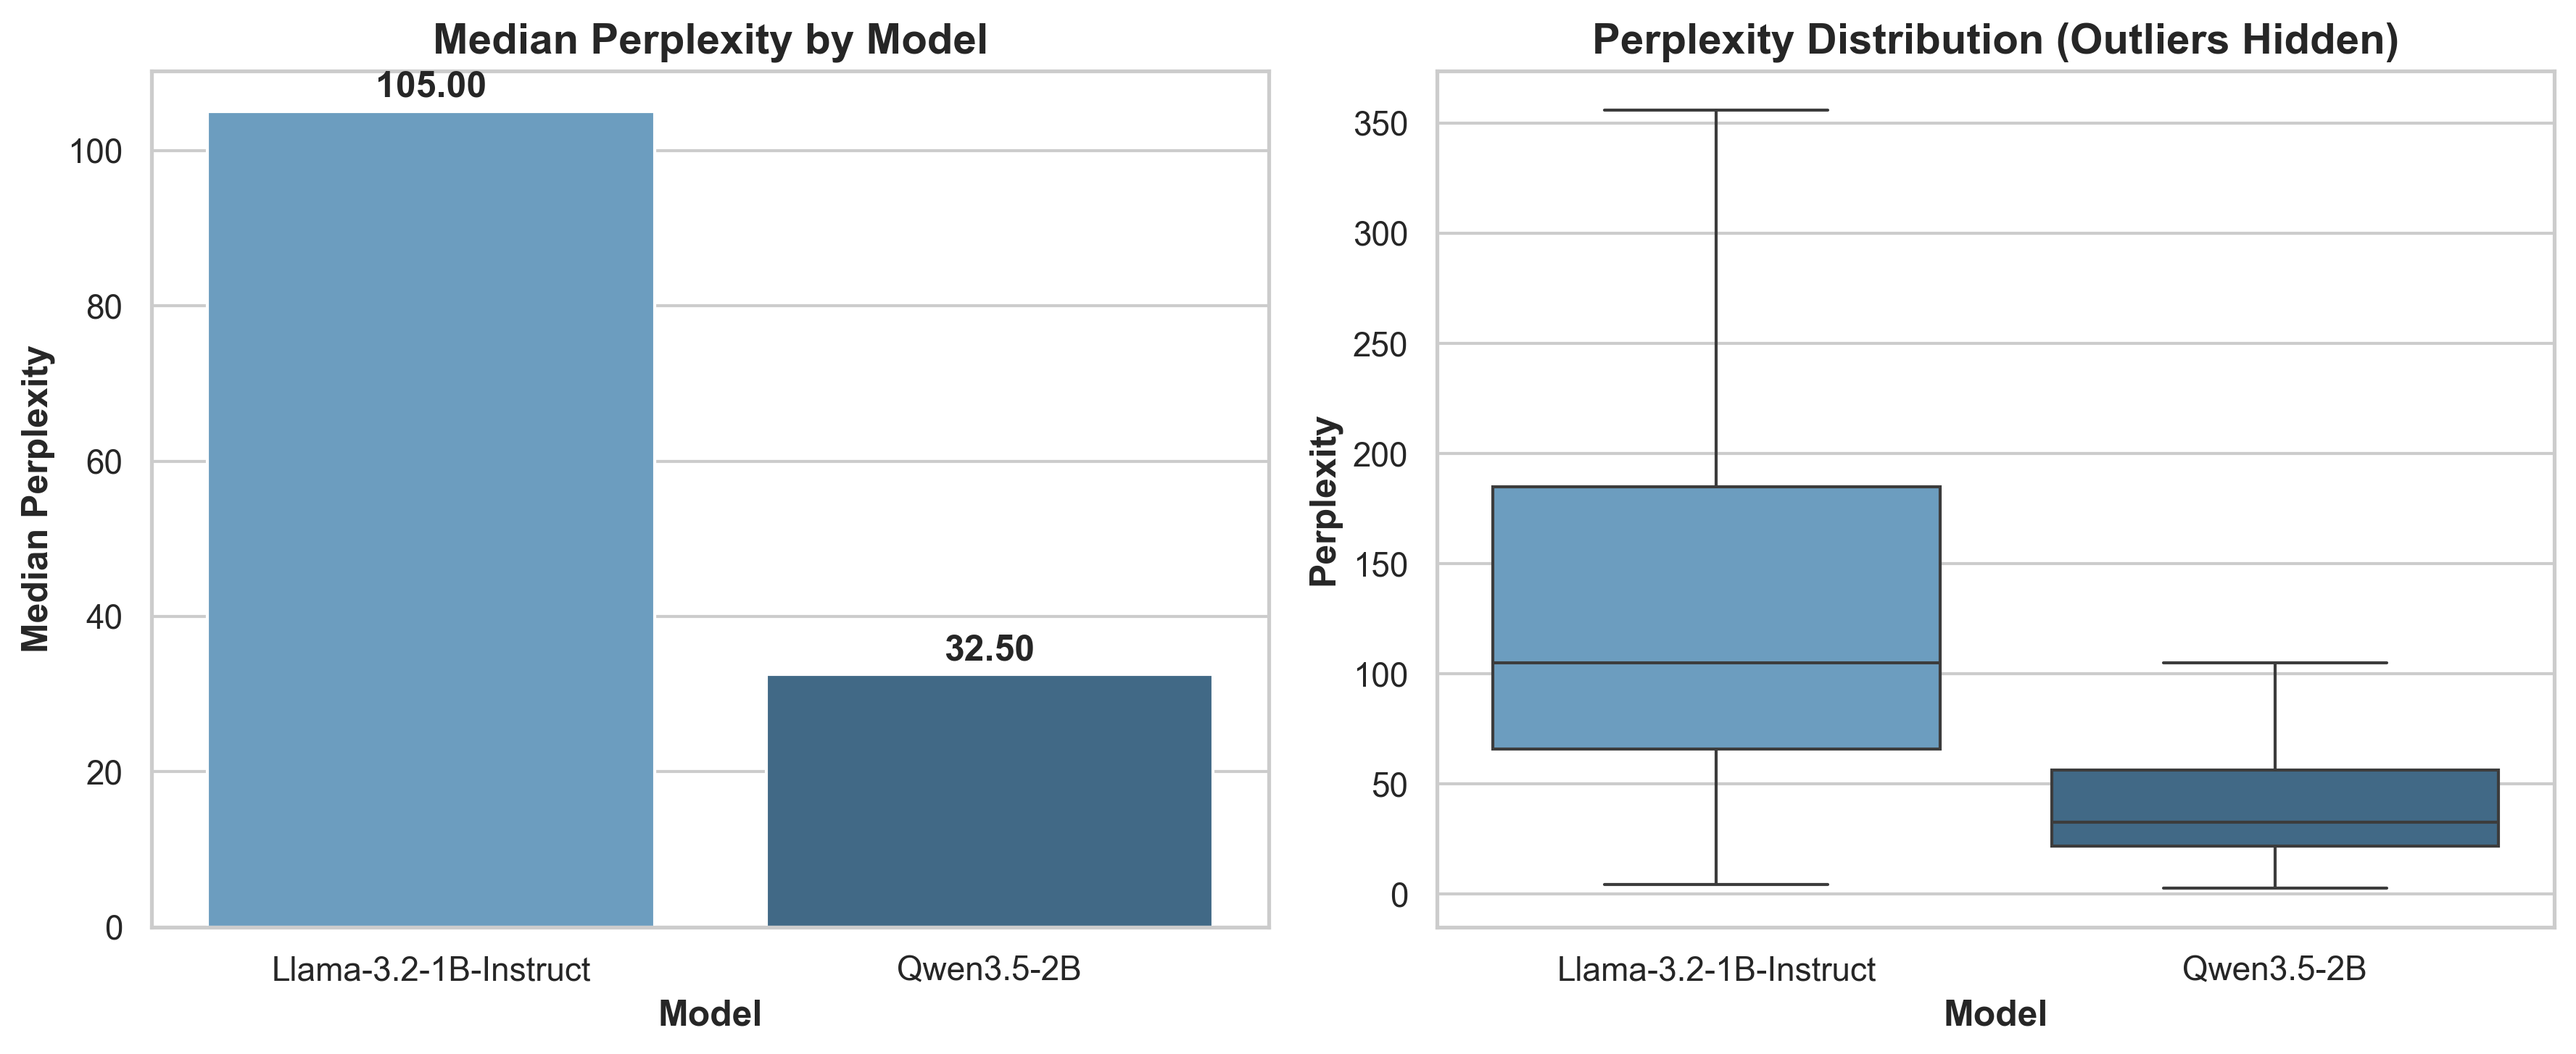
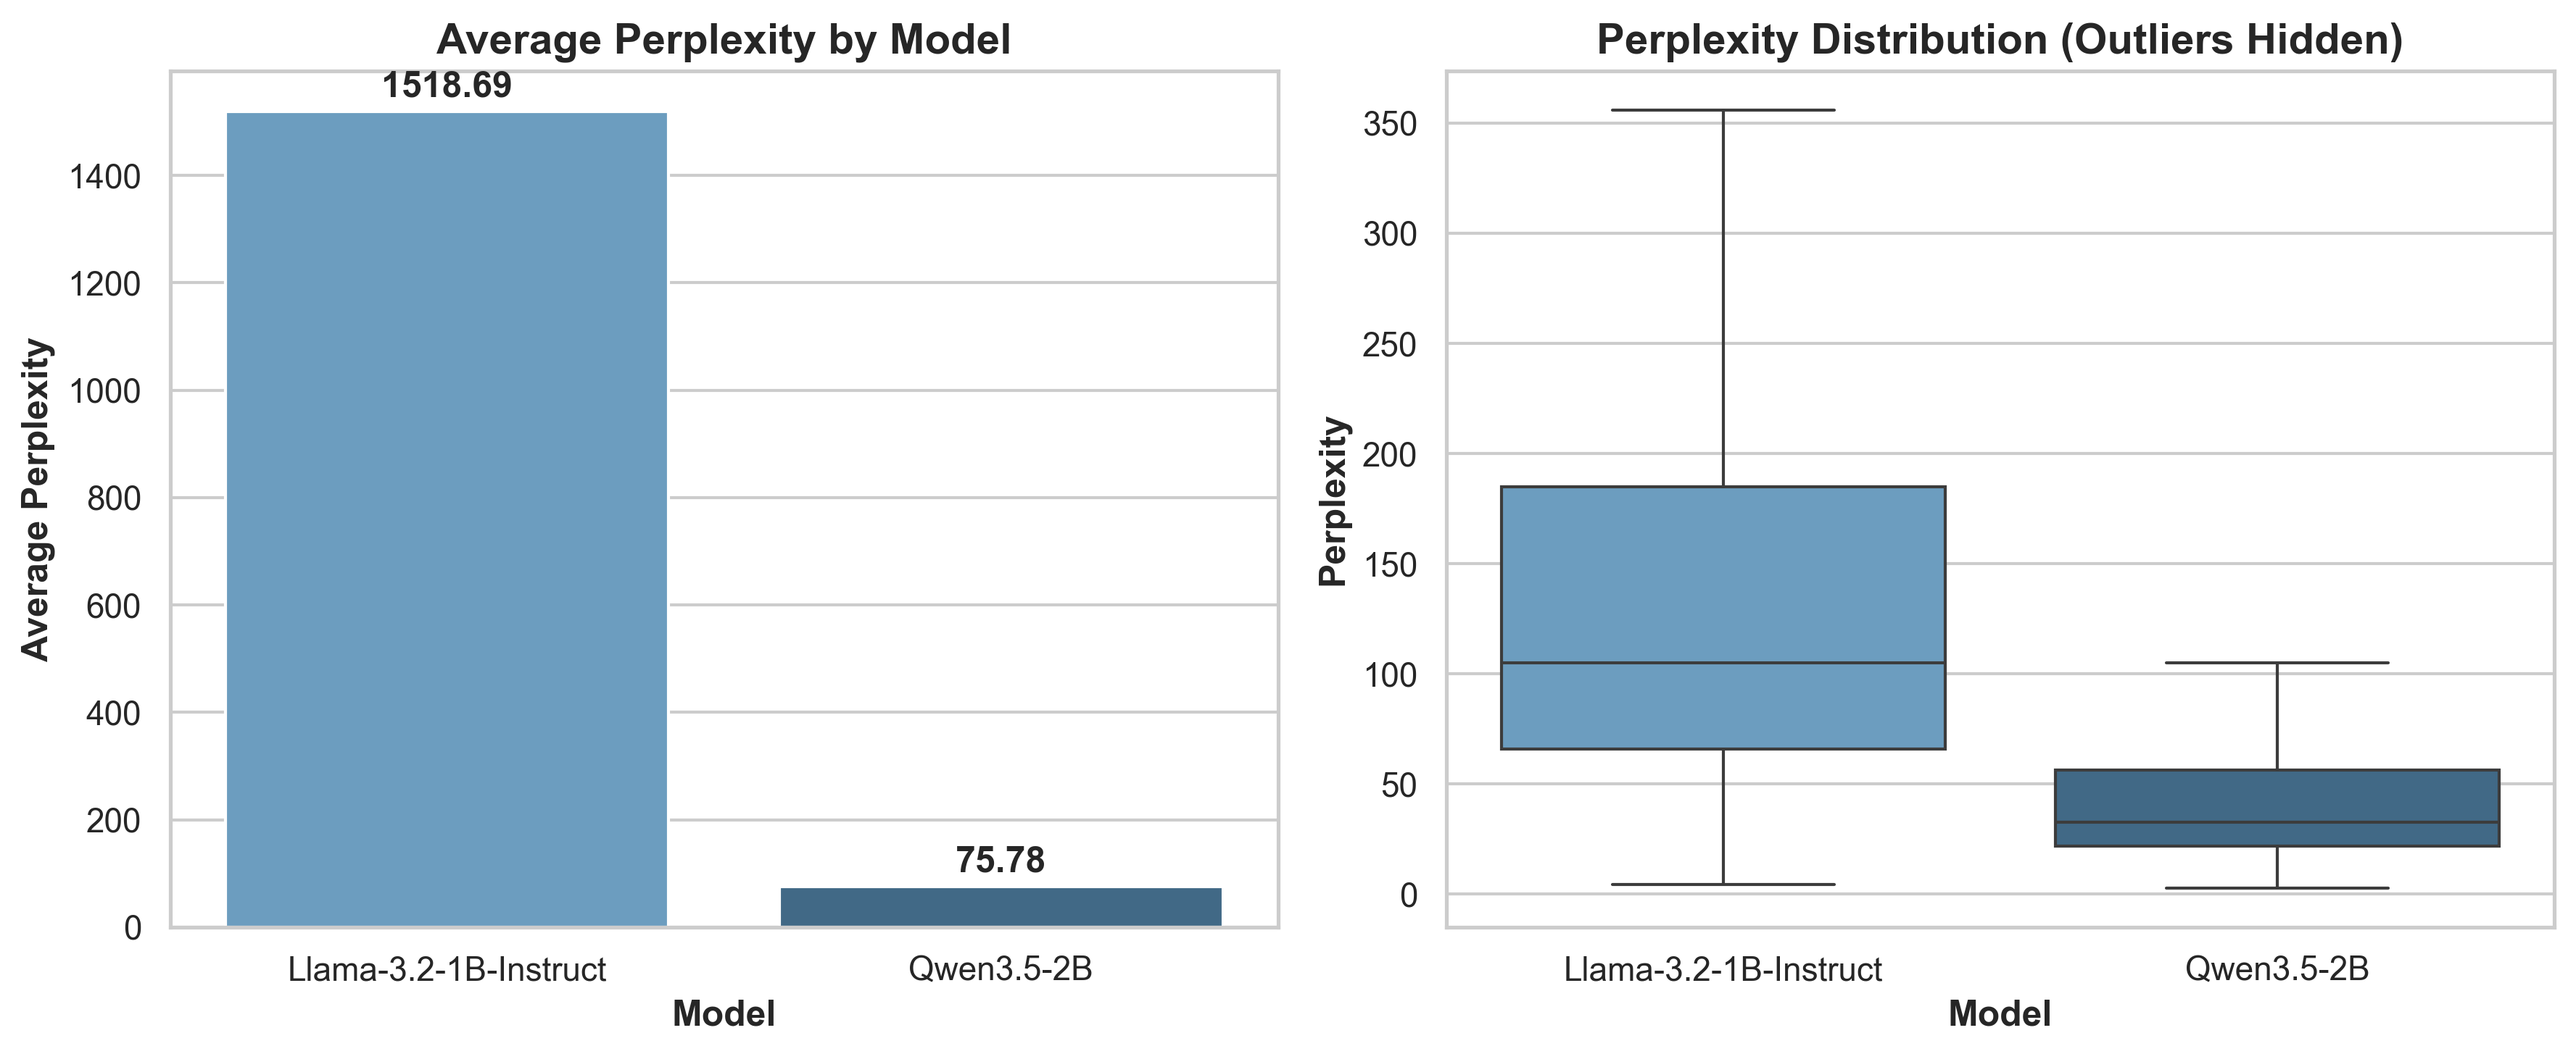
ppl results with median, fixed

diff --git a/perplexity_results/compare_ppl_values.py b/perplexity_results/compare_ppl_values.py
@@ -53,8 +53,8 @@ def main():
         
     combined_df = pd.concat(data, ignore_index=True)
     
-    # Calculate median PPL for barplot
-    median_df = combined_df.groupby('Model')['perplexity'].median().reset_index()
+    # Calculate average PPL for barplot
+    avg_df = combined_df.groupby('Model')['perplexity'].mean().reset_index()
     
     # Set seaborn style
     sns.set_theme(style="whitegrid")
@@ -62,10 +62,10 @@ def main():
     # Create a figure with two subplots
     fig, axes = plt.subplots(1, 2, figsize=(12, 5))
     
-    # Plot 1: Bar chart of median perplexity
-    sns.barplot(data=median_df, x='Model', y='perplexity', ax=axes[0], hue='Model', palette="Blues_d", legend=False)
-    axes[0].set_title('Median Perplexity by Model', fontsize=14, fontweight='bold')
-    axes[0].set_ylabel('Median Perplexity', fontsize=12, fontweight='bold')
+    # Plot 1: Bar chart of average perplexity
+    sns.barplot(data=avg_df, x='Model', y='perplexity', ax=axes[0], hue='Model', palette="Blues_d", legend=False)
+    axes[0].set_title('Average Perplexity by Model', fontsize=14, fontweight='bold')
+    axes[0].set_ylabel('Average Perplexity', fontsize=12, fontweight='bold')
     axes[0].set_xlabel('Model', fontsize=12, fontweight='bold')
     
     # Annotate the bars
